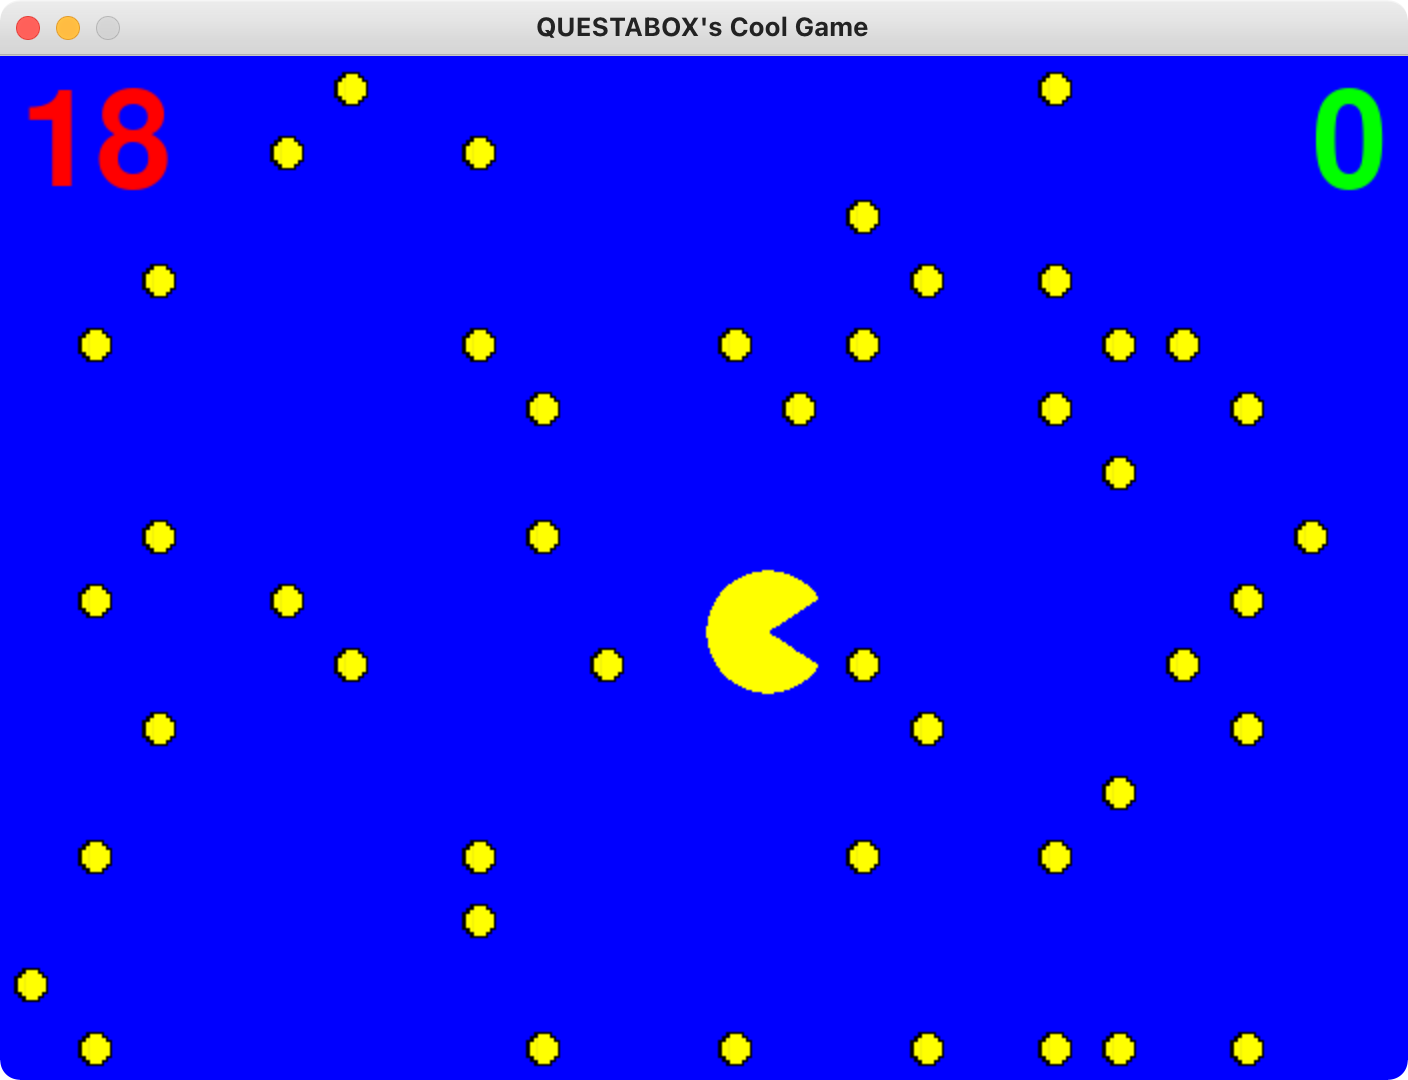
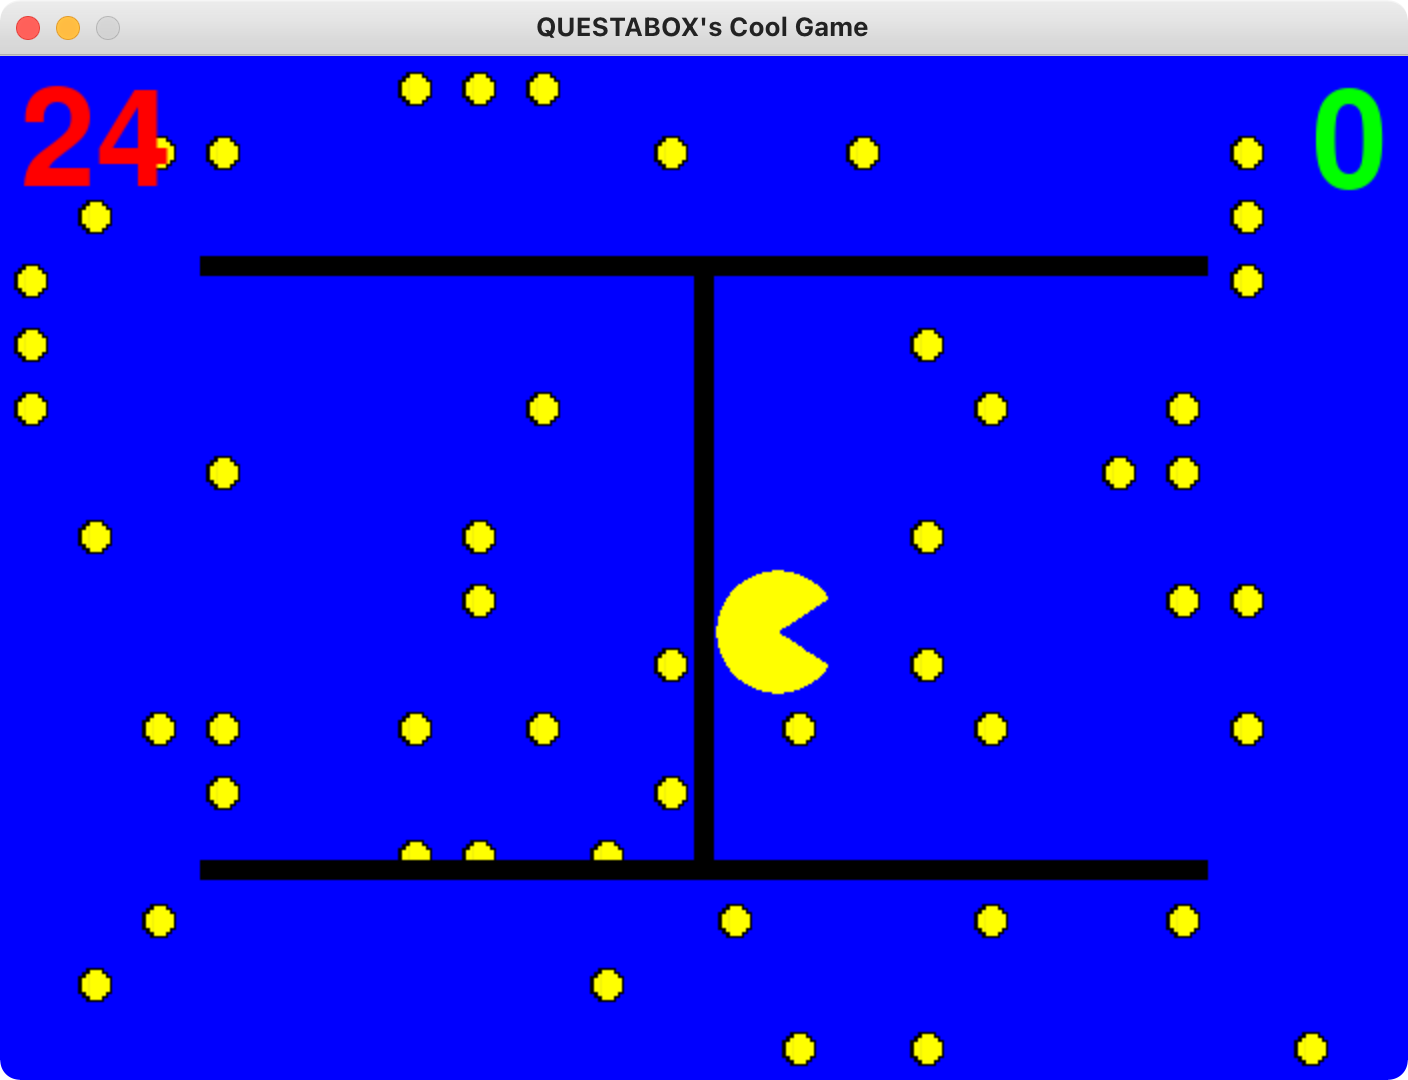
added another wall and redid screenshot

diff --git a/pac_man.py b/pac_man.py
@@ -51,14 +51,14 @@ pygame.time.set_timer(pygame.USEREVENT, 1000) # 1000 milliseconds = 1 second
 # def draw_rect(display, x, y, W, H):
     # pygame.draw.rect(display, WHITE, (x, y, W, H), width=1)
 class Rectangle(pygame.sprite.Sprite): # make class of same class as Sprites
-    def __init__(self, sprite_image, W, H): # constructor, "self" is like a key for "pacman" sprite to access class
+    def __init__(self, W, H): # constructor, "self" is like a key for "pacman" sprite to access class
         super().__init__() # initialize your sprites, similar to init()
         size = (W, H) # local variable
         self.image = pygame.Surface(size) # blank image
         self.image.fill(BLACK)
         # self.image.set_colorkey(BLACK) # removes background
         # pygame.draw.rect(self.image, COLOR, (0, 0, W, H), width=0) # drawing on image, not screen
-        self.image.blit(sprite_image, (0, 0))
+        # self.image.blit(sprite_image, (0, 0))
         self.rect = self.image.get_rect() # pair image with rectangle object, the rectangle object is your sprite
         # nutshell: drawing shape on an image, and you pair that image with a rectangle object, which is your sprite
     def update(self):
@@ -77,25 +77,37 @@ class Rectangle(pygame.sprite.Sprite): # make class of same class as Sprites
         self.image.set_colorkey(BLACK)
 # ---------------------
 
-wall = Rectangle(pygame.Surface((200, 10)), size[0]-100-100, 10)
+# wall = Rectangle(pygame.Surface((200, 10)), size[0]-100-100, 10)
+wall = Rectangle(size[0]-100-100, 10)
 wall.rect.x = 100
 wall.rect.y = 100
 walls.add(wall)
 
-wall = Rectangle(pygame.Surface((200, 10)), size[0]-100-100, 10)
+# wall = Rectangle(pygame.Surface((200, 10)), size[0]-100-100, 10)
+wall = Rectangle(size[0]-100-100, 10)
 wall.rect.x = 100
 wall.rect.y = size[1]-100-10
 walls.add(wall)
 
+# wall = Rectangle(pygame.Surface((200, 10)), 10, size[1]-100-100-10-10)
+wall = Rectangle(10, size[1]-100-100-10-10)
+wall.rect.x = size[0]/2-10/2
+wall.rect.y = 100+10
+walls.add(wall)
+
 # pacman = Rectangle(WHITE, W_pacman, H_pacman)
-pacman = Rectangle(pacman_image, W_pacman, H_pacman)
+# pacman = Rectangle(pacman_image, W_pacman, H_pacman)
+pacman = Rectangle(W_pacman, H_pacman)
+pacman.image.blit(pacman_image, (0, 0)) # was self.image.blit(sprite_image, (0, 0))
 pacman.rect.x = size[0]/2+x_offset
 pacman.rect.y = size[1]/2+y_offset
 
 # for i in range(0, 50): # create and add fifty pellets
 while 50-len(pellets) > 0:
     # pellet = Rectangle(YELLOW, W_pellet, H_pellet)
-    pellet = Rectangle(pellet_image, W_pellet, H_pellet)
+    # pellet = Rectangle(pellet_image, W_pellet, H_pellet)
+    pellet = Rectangle(W_pellet, H_pellet)
+    pellet.image.blit(pellet_image, (0, 0)) # was self.image.blit(sprite_image, (0, 0))
     # pellet.rect.x = random.randrange(0, size[0]+1-W_pellet) # allow pellet to touch edge but not breach it
     pellet.rect.x = random.randrange(0, size[0]-W_pellet, W_pellet) # includes max, but prone to off-by-one error
     pellet.rect.y = random.randrange(0, size[1]+1-H_pellet, H_pellet)
